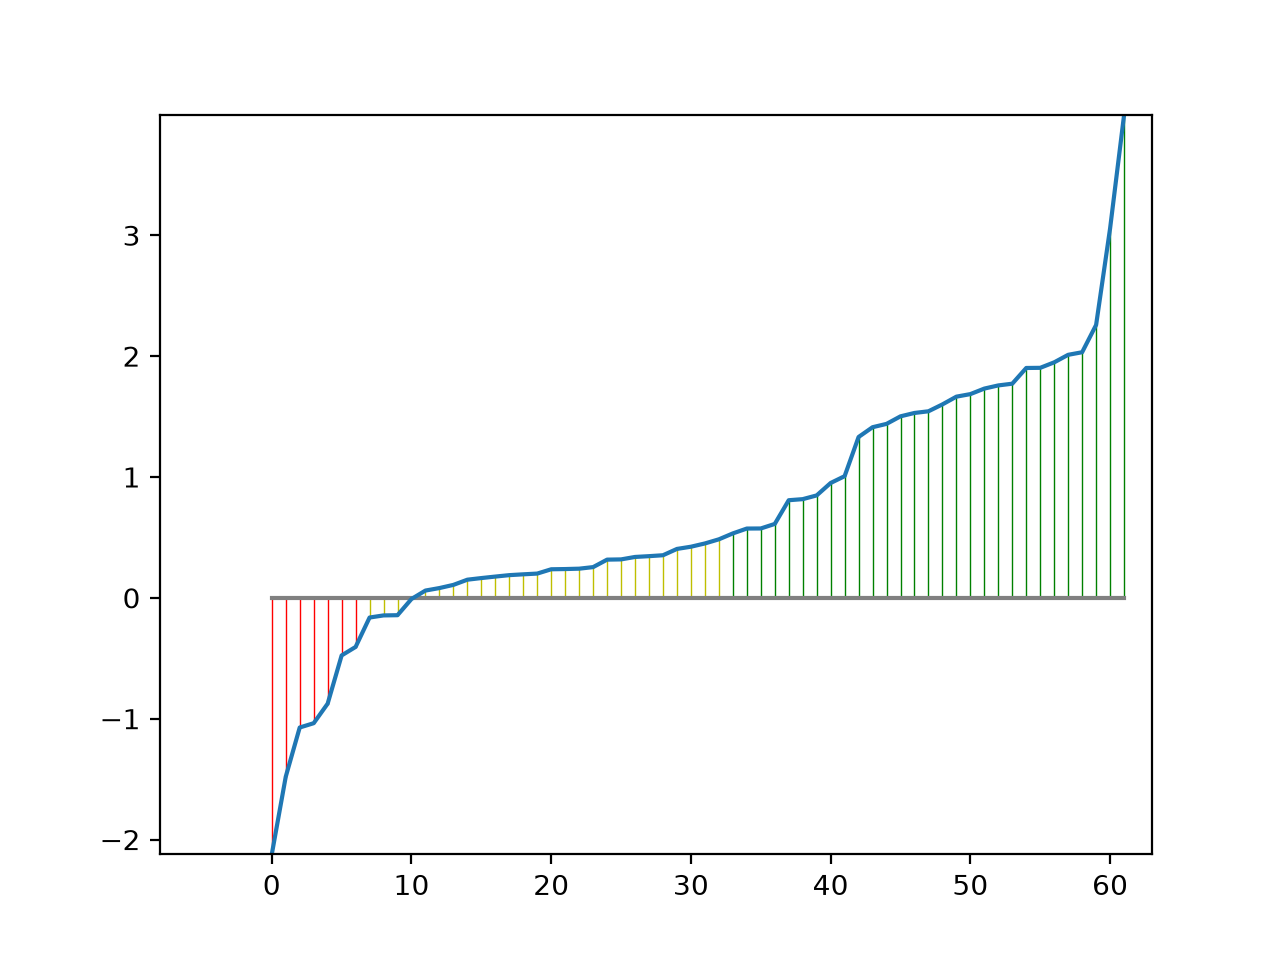
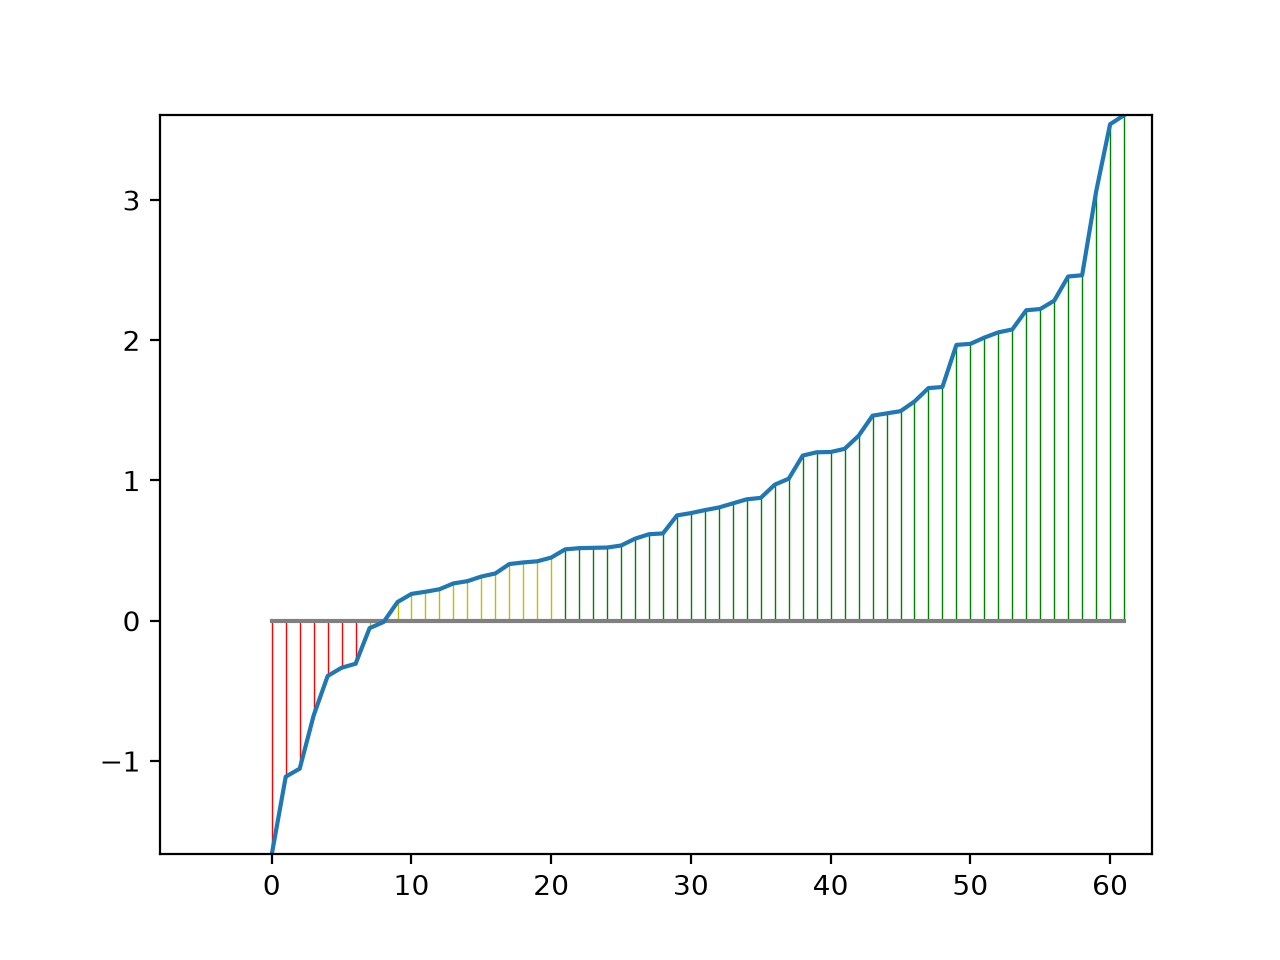
(1) Add dataset load from kagglehub; (2) Scale samples (train and test) separately (min-max).

diff --git a/students/potapov-sa/lab1/source/src/dataset.py b/students/potapov-sa/lab1/source/src/dataset.py
@@ -1,6 +1,6 @@
-import os
 from typing import Optional, Literal
 from io import StringIO
+from kagglehub import load_dataset, KaggleDatasetAdapter
 
 import pandas as pd
 import numpy as np
@@ -52,24 +52,17 @@ class DataSet(PandasWrapper):
 
     @staticmethod
     def _load_dataset() -> pd.DataFrame:
-        path = '~/.cache/kagglehub/datasets/mayurdalvi/sonar-mine-dataset/versions/1'
-        return pd.read_csv(os.path.join(path, DATASET_FILENAME))
-
-    @staticmethod
-    def _scale_dataset(df: pd.DataFrame) -> pd.DataFrame:
-        for col in df.columns:
-            min_ = df[col].min()
-            df[col] = (df[col] - min_) / (df[col].max() - min_)
-        return df
+        return load_dataset(
+            KaggleDatasetAdapter.PANDAS,
+            'mayurdalvi/sonar-mine-dataset',
+            'sonar data.csv'
+        )
 
     def _prepare_dataset(self, target: str) -> pd.DataFrame:
         df = self._load_dataset()
         df[target] = df[target] == 'M'
         df = df.astype({target: np.int16})
         df[target] -= 1 - df[target]
-        cols_wo_target = df.columns.drop(target)
-        df[cols_wo_target] = self._scale_dataset(df[cols_wo_target])
-
         return df
 
     def _train_test_split(self, target: str, ratio: float) -> tuple[DataSample, DataSample]:
@@ -100,13 +93,21 @@ class DataSample(PandasWrapper):
             dataset_name: Optional[str] = None
     ):
         super().__init__(type_=type_, name=dataset_name)
-        self._df = df
-        self._X = df.drop([target], axis=1)
+        self._df = self._scale(df, target)
+        self._X = self._df.drop([target], axis=1)
         self._X_1 = self._X.copy()
         if 'dummy' in self._X_1.columns:
             raise Exception('Invalid dataset column name: "dummy"')
         self._X_1['dummy'] = 1
         self._Y = df[target]
+
+    def _scale(self, df: pd.DataFrame, *ignore: str) -> pd.DataFrame:
+        for col in df.columns:
+            if col in ignore:
+                continue
+            min_ = df[col].min()
+            df[col] = (df[col] - min_) / (df[col].max() - min_)
+        return df
 
     @property
     def X(self) -> pd.DataFrame:

diff --git a/students/potapov-sa/lab1/source/src/linear_classificator.py b/students/potapov-sa/lab1/source/src/linear_classificator.py
@@ -110,12 +110,12 @@ class LinearClassificator(Model):
         sub_Y.reset_index()
         return sub_X.to_numpy(), sub_Y.to_numpy()
 
-    def update_weights_nag(self, v: np.float64, x: np.ndarray, y: np.ndarray) -> np.float64:
+    def update_weights_nag(self, v: np.ndarray, x: np.ndarray, y: np.ndarray) -> np.ndarray:
         h = 1 / np.sum(x ** 2) ** 2 # steepest decent
         nag_weights = self._weights - h * self.gamma * v
         m = self.calc_margins(x, y, weights=nag_weights)
         grad = (-2 * y * (1 - m)) @ x
-        v = (self.gamma * v + (1 - self.gamma) * grad)[0]
+        v = self.gamma * v + (1 - self.gamma) * grad
         self._weights = self._weights * (1 - h * self.tao) - h * v
         return v
 
@@ -132,14 +132,14 @@ class LinearClassificator(Model):
         x, y = X[batch_rand_idx], Y[batch_rand_idx]
         return x, y
 
-    def sgd(self, sample: DataSample, batch_size: int = 16):
+    def sgd(self, sample: DataSample):
         X, Y = sample.X_1.to_numpy(), sample.Y.to_numpy()
 
         q = np.mean(self.loss(*self._get_subsample(sample)))
         delta_q = float('inf')
 
         # NAG
-        v = np.float64(0)
+        v = np.zeros(self.feature_count)
         
         i = 0
         while delta_q > self.epsilon:

diff --git a/students/potapov-sa/lab1/source/main.py b/students/potapov-sa/lab1/source/main.py
@@ -1,13 +1,14 @@
 from typing import Literal
 
+import numpy as np
 import pandas as pd
 
 from src.model import Model
 from src.dataset import DataSet, DataSample
 from src.linear_classificator import LinearClassificator
 from src.plot import plot_margins, plot_metrics
-from src.constants import DATASET_TARGET
 from src.reference_classifier import ReferenceSGDClassifier
+from src.constants import RANDOM_STATE
 
 
 def solution_corr(
@@ -174,14 +175,6 @@ def main():
         print_model_metrics(model)
 
 
-def tmp():
-    ds = DataSet()
-    df = ds.df
-    df.info()
-    print(df[DATASET_TARGET].value_counts())
-
-
 if __name__ == '__main__':
-    # np.random.seed(RANDOM_STATE)
-    # main()
-    tmp()
+    np.random.seed(RANDOM_STATE)
+    main()

diff --git a/students/potapov-sa/lab1/README.md b/students/potapov-sa/lab1/README.md
@@ -24,9 +24,8 @@ Name: count, dtype: int64
 
 - В качестве положительного класса была взята отметка `M`, в качестве отрицательного - `R`
 - Значения 0 и 1 были преобразованы в 1 и -1
-- Была произведена min-max нормализация всех признаков, кроме таргета
 
-Метод подготовки датасета: [src/dataset.py:65](source/src/dataset.py#L65)
+Метод подготовки датасета ([src/dataset.py:61](source/src/dataset.py#L61)):
 ```py
 def _prepare_dataset(self, target: str) -> pd.DataFrame:
     df = self._load_dataset()
@@ -34,8 +33,17 @@ def _prepare_dataset(self, target: str) -> pd.DataFrame:
     df = df.astype({target: np.int16})
     df[target] -= 1 - df[target]
     cols_wo_target = df.columns.drop(target)
-    df[cols_wo_target] = self._scale_dataset(df[cols_wo_target])
+    return df
+```
 
+Также для каждой выборки (`train` и `test`) была произведена `min-max` нормализация всех признаков, кроме таргета ([src/dataset.py:104](source/src/dataset.py#L104)):
+```py
+def _scale(self, df: pd.DataFrame, *ignore: str) -> pd.DataFrame:
+    for col in df.columns:
+        if col in ignore:
+            continue
+        min_ = df[col].min()
+        df[col] = (df[col] - min_) / (df[col].max() - min_)
     return df
 ```
 
@@ -57,13 +65,9 @@ def _prepare_dataset(self, target: str) -> pd.DataFrame:
 
 ### 2.2 Отступы модели со случайной инициализацией весов через мультистарт (далее - `multistart`)
 
-График показывает плохую линейную разделимость. Отступы всех объектов являются неуверенными (находятся в окрестности нуля).
-
 ![multistart-margins](source/report_img/multistart.png)
 
 ### 2.3 Отступы модели со случайным предъявлением объектов (далее - `shuffling`)
-
-График показывает плохую линейную разделимость. Отступы всех объектов являются неуверенными (находятся в окрестности нуля).
 
 ![shuffling-margins](source/report_img/shuffling.png)
 
@@ -191,12 +195,12 @@ $$
 
 Реализация в коде ([src/linear_classificator.py:113](source/src/linear_classificator.py#L113)):
 ```py
-def update_weights_nag(self, v: np.float64, x: np.ndarray, y: np.ndarray) -> np.float64:
+def update_weights_nag(self, v: np.ndarray, x: np.ndarray, y: np.ndarray) -> np.ndarray:
     h = 1 / np.sum(x ** 2) ** 2 # steepest decent
     nag_weights = self._weights - h * self.gamma * v
     m = self.calc_margins(x, y, weights=nag_weights)
     grad = (-2 * y * (1 - m)) @ x
-    v = (self.gamma * v + (1 - self.gamma) * grad)[0]
+    v = (self.gamma * v + (1 - self.gamma) * grad)
     self._weights = self._weights * (1 - h * self.tao) - h * v
     return v
 ```
@@ -317,8 +321,8 @@ def solution_corr(
 ```plaintext
 corr metrics:
        Accuracy  Precision    Recall
-train  0.751724   0.729412  0.826667
-test   0.822581   0.837838  0.861111
+train  0.758621   0.850746  0.695122
+test   0.854839   0.916667  0.758621
 ```
 
 ### 9.2 Обучение со случайной инициализацией весов через мультистарт (модель `multistart`)
@@ -368,8 +372,8 @@ def solution_multistart(
 ```plaintext
 multistart metrics:
        Accuracy  Precision    Recall
-train  0.696552   0.714286  0.750000
-test   0.741935   0.727273  0.774194
+train  0.793103   0.809524  0.829268
+test   0.903226   0.925926  0.862069
 ```
 
 ### 9.3 Обучение со случайным предъявлением (модель `shuffling`)
@@ -408,9 +412,9 @@ def solution_shuffling(
 
 ```plaintext
 shuffling metrics:
-       Accuracy  Precision  Recall
-train  0.475862   0.475862     1.0
-test   0.677419   0.677419     1.0
+       Accuracy  Precision    Recall
+train  0.813793   0.772727  0.906667
+test   0.854839   0.885714  0.861111
 ```
 
 ### 9.4 Обучение с предъявлением объектов по модулю отступа (модель `unsure_margin`)
@@ -438,9 +442,9 @@ def solution_unsure_margin(
 **Метрики**
 ```plaintext
 unsure_margin metrics:
-       Accuracy  Precision  Recall
-train  0.462069   0.462069     1.0
-test   0.709677   0.709677     1.0
+       Accuracy  Precision    Recall
+train  0.882759   0.862500  0.920000
+test   0.854839   0.935484  0.805556
 ```
 
 ### 9.5 Эталонная реализация (модель `ref`)
@@ -467,8 +471,8 @@ def solution_reference(
 ```plaintext
 ref metrics:
        Accuracy  Precision    Recall
-train  0.834483   0.757895  0.986301
-test   0.870968   0.857143  0.947368
+train  0.868966   0.858974  0.893333
+test   0.870968   0.937500  0.833333
 ```
 
 ## 10. Оценка качества классификации
@@ -479,18 +483,18 @@ test   0.870968   0.857143  0.947368
 ```plaintext
 Best metrics:
                Accuracy  Precision    Recall
-ref            0.870968   0.857143  0.947368
-corr           0.822581   0.837838  0.861111
-multistart     0.741935   0.727273  0.774194
-unsure_margin  0.709677   0.709677  1.000000
-shuffling      0.677419   0.677419  1.000000
+multistart     0.903226   0.925926  0.862069
+ref            0.870968   0.937500  0.833333
+corr           0.854839   0.916667  0.758621
+shuffling      0.854839   0.885714  0.861111
+unsure_margin  0.854839   0.935484  0.805556
 ```
 
-Таким образом, из самописных реализаций лучшей оказалась модель с инициализацией весов через корреляцию (`corr`).
+Таким образом, из самописных реализаций лучшей оказалась модель с инициализацией весов через корреляцию (`multstart`).
 
 ### 10.2 Графики метрик
 
-По графикам можно увидеть, что наилучшая самописная реализация `corr` в целом приближена к результатам эталонной реализации `ref`.
+По графикам можно увидеть, что наилучшая самописная реализация `multistart` показала себя лучше, чем эталонная реализация `ref`.
 
 #### 10.2.1 Accuracy
 
@@ -506,8 +510,8 @@ shuffling      0.677419   0.677419  1.000000
 
 ## 11. Сравнение лучшей реализации с эталонной
 
-Эталонная реализация `ref` оказалась лучше самописной `corr`:
+По `accuracy` и `recall` самописная реализация `multistart` оказалась лучше эталонной реализации `ref`:
 
-- По `accuracy`: на 5.9%
-- По `precision`: на 2.3%
-- По `recall`: на 10%
+- По `accuracy`: самописная на 3.7% лучше эталонной
+- По `precision`: эталонная на 1.2% лучше самописной
+- По `recall`: самописная на 3.4% лучше эталонной

diff --git a/students/potapov-sa/lab1/source/TODO.md b/students/potapov-sa/lab1/source/TODO.md
@@ -1,0 +1,7 @@
+- [x] Добавить загрузку датасета
+- [x] Стандартизацию после сплита, иначе идет утечка в обучение
+- [ ] Добавить подписи к осям в графиках
+- [ ] Убрать графики метрик при обучении; добавить графики loss на train и test при обучении
+
+- [ ] Исправить ошибку в формуле наискорейшего спуска
+- [ ] Или искать скорейший спуск по направлению инерции, или разделить режимы
